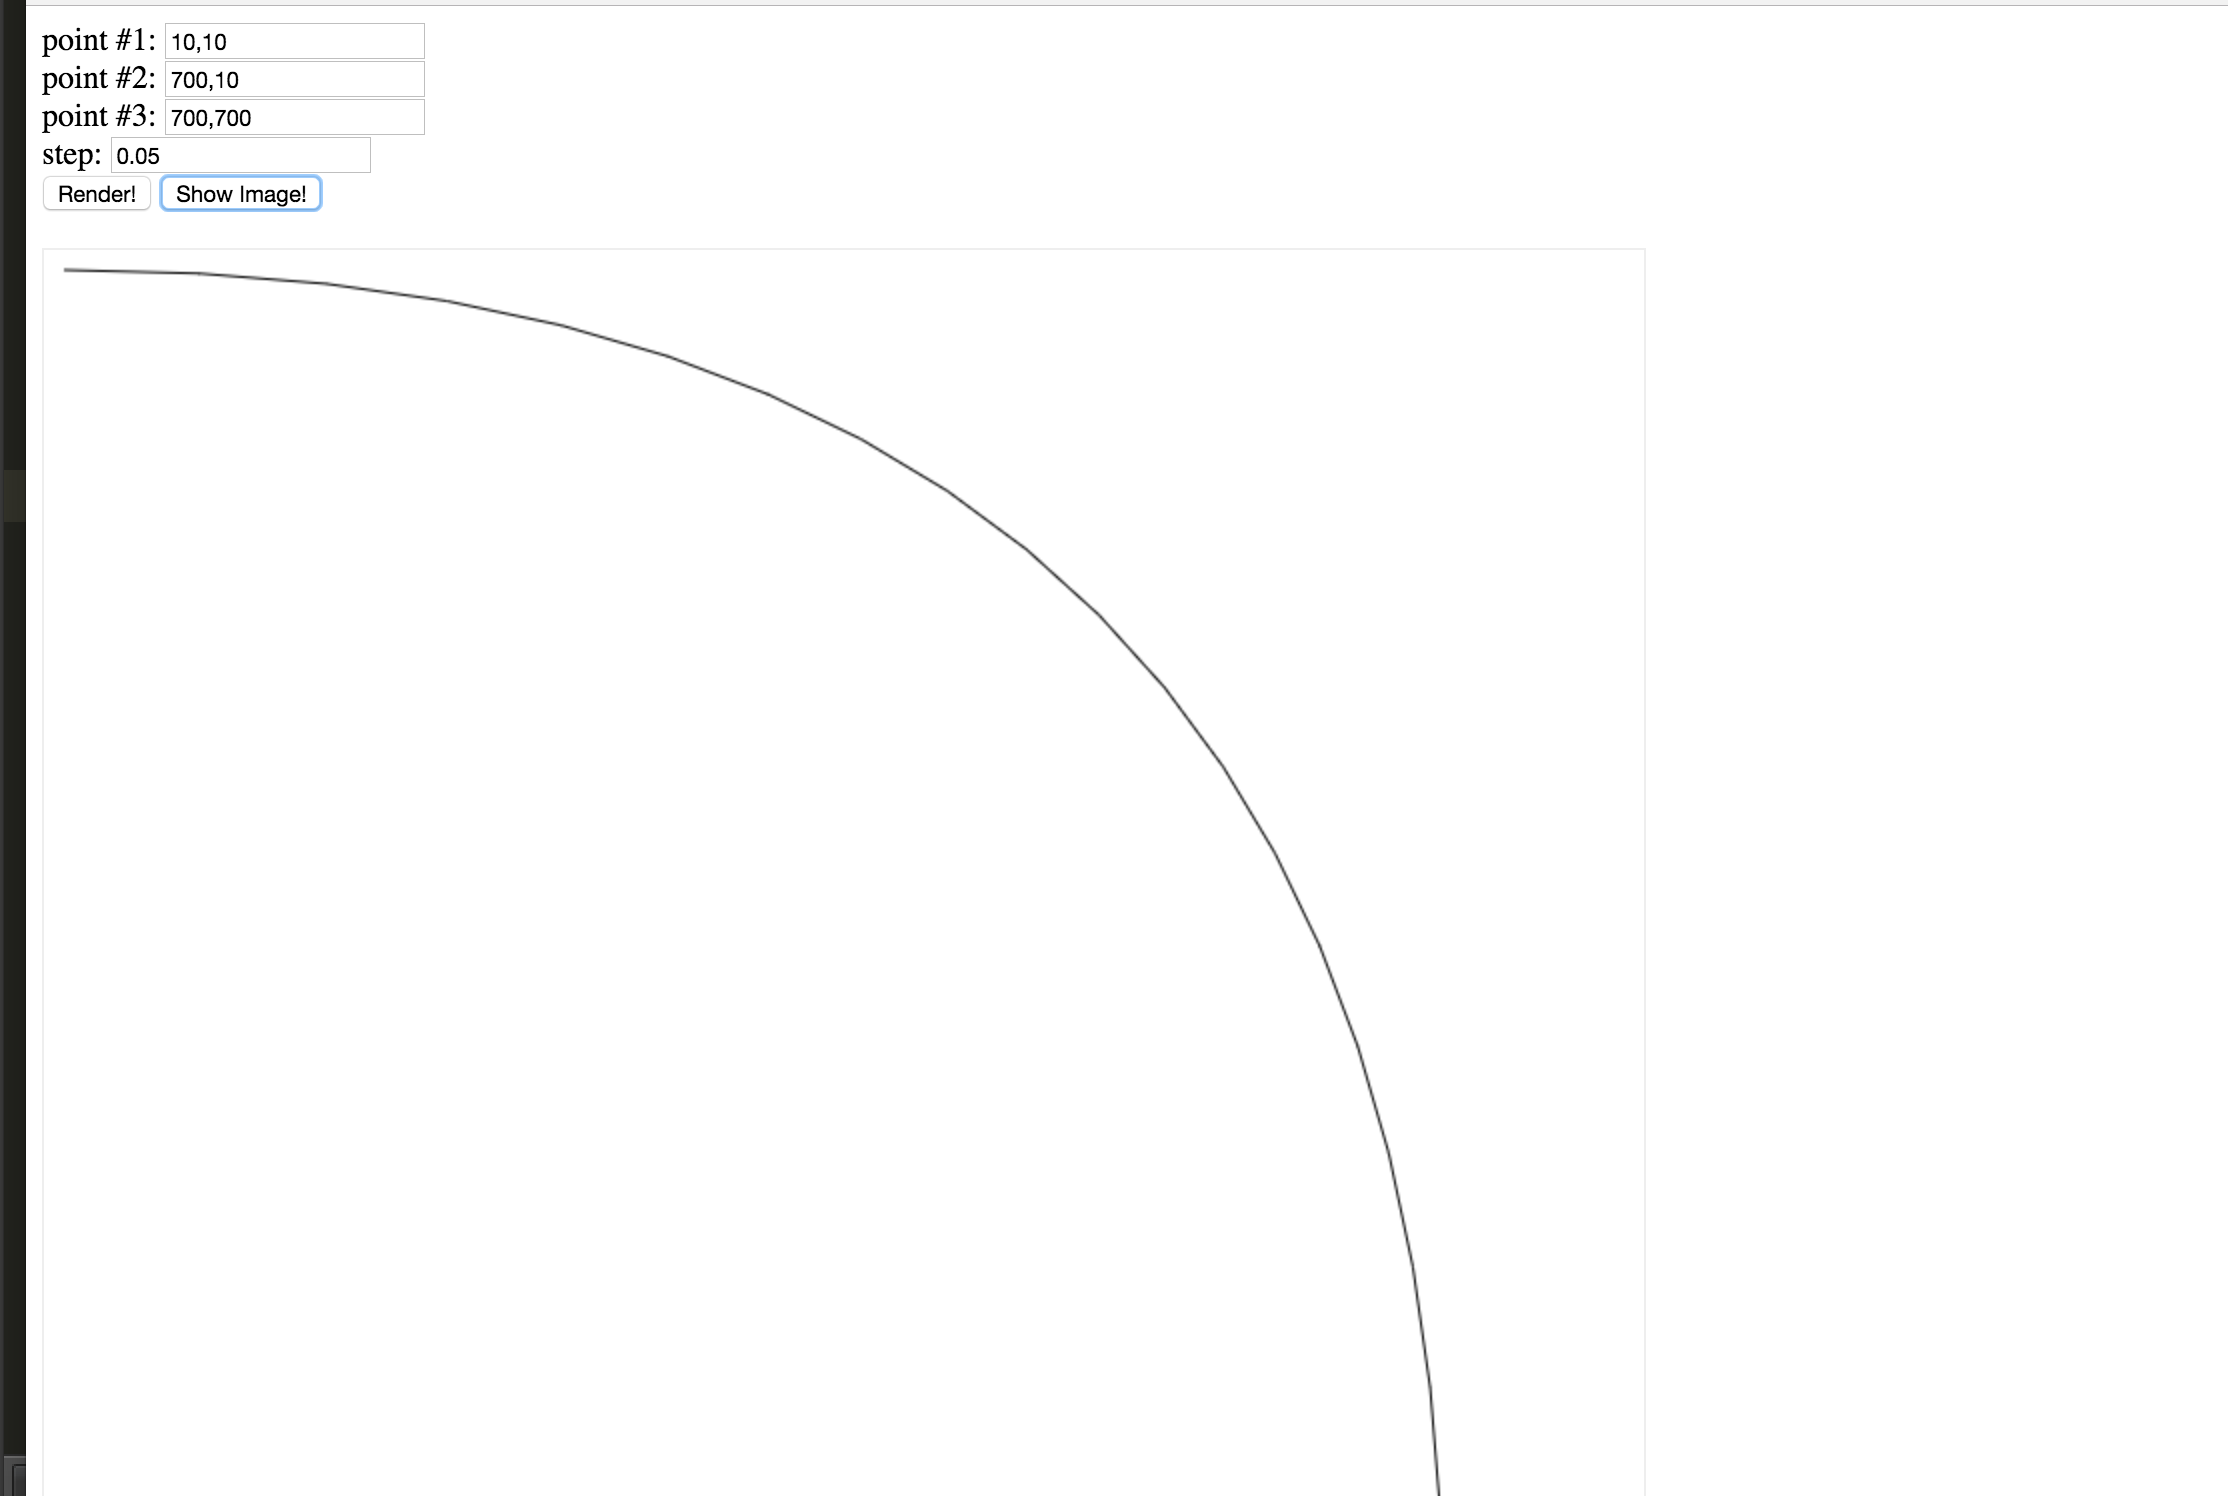
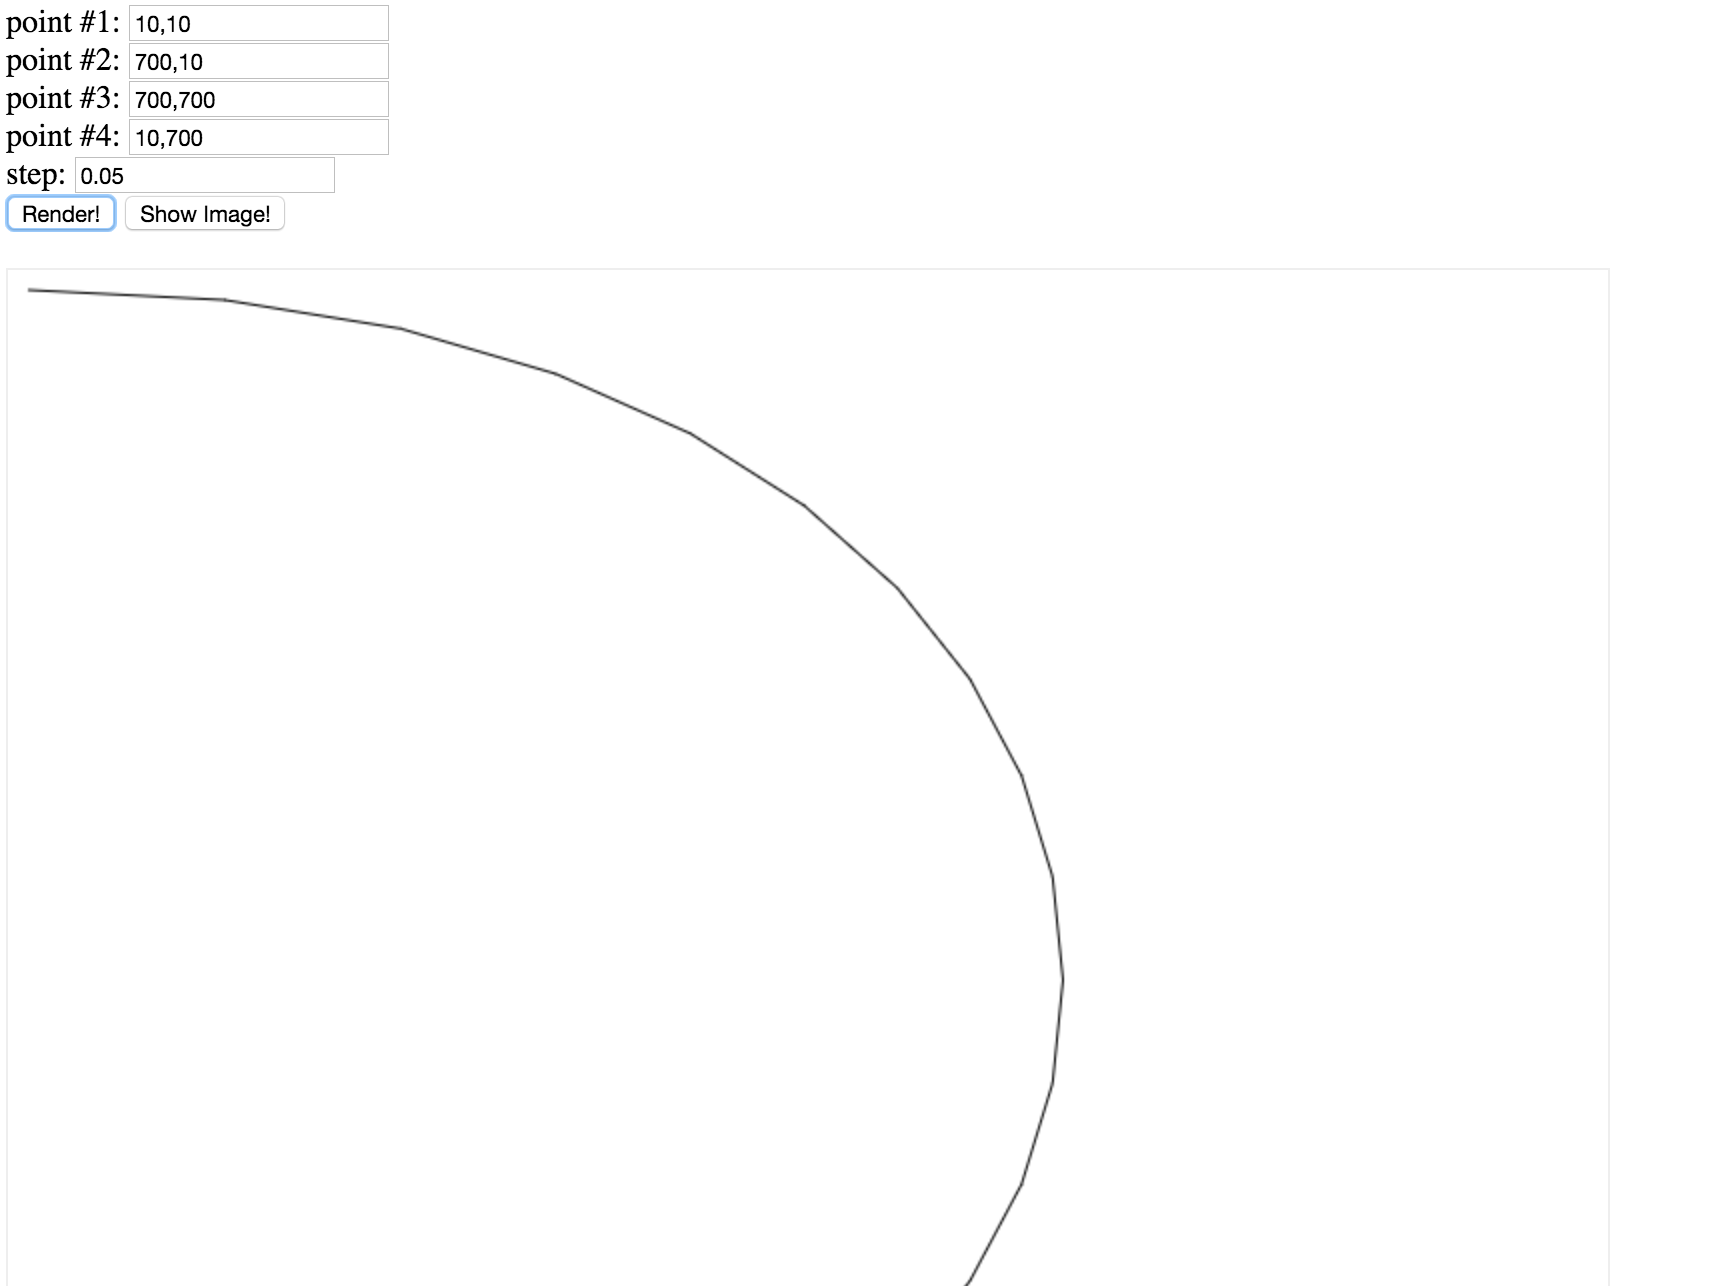
Implement cubic bezier curve algorithm

diff --git a/009-bezier-curves/bezier.js b/009-bezier-curves/bezier.js
@@ -2,6 +2,10 @@ var canvas = null;
 var context = null;
 var step = null;
 
+function apply(fn, args) {
+  return fn.apply(null, args);
+}
+
 function draw(p1, p2) {
   context.beginPath();
   console.log("creating line from (" + p1.x + ", " + p1.y + ") to (" +
@@ -11,21 +15,46 @@ function draw(p1, p2) {
   context.stroke();
 }
 
-function bezierCurveFor(t, a, b, c) {
+function cubicBezierCurve(t, a, b, c, d) {
+  var t1 = (1 - t);
+  var result = a*t1*t1*t1 + 3*b*t*t1*t1 + 3*c*t1*t*t + d*t*t*t;
+  return result;
+}
+
+function quadraticBezierCurve(t, a, b, c) {
   var t1 = (1 - t);
   var result = a*t1*t1 + 2*b*t1*t + c*t*t;
   /*   console.log('bezierCurve', result, [t, a, b, c]);*/
   return result;
 }
 
-function bezierCurve(a, b, c) {
-  var cur, last = null;
+function args(nthStep, whichArg, args) {
+  var a = [];
+  for (var i = 0; i < args.length; i++) {
+    a.push(args[i]);
+  }
+  var result = [nthStep].concat(a.map(function(pt) { return pt[whichArg] }));
+  console.log('args', result);
+  return result;
+}
+
+function bezierCurve() {
+  var fn,cur, last = null;
+
+  if (arguments.length === 4) {
+    fn = cubicBezierCurve;
+    console.log('using the cubicBezierCurve algorithm');
+  } else {
+    fn = quadraticBezierCurve;
+    console.log('using the quadraticBezierCurve algorithm');
+  }
 
   for (var i = 0; i < 1; i += step) {
     cur = {
-      x: bezierCurveFor(i, a.x, b.x, c.x),
-      y: bezierCurveFor(i, a.y, b.y, c.y)
+      x: apply(fn, args(i, 'x', arguments)),
+      y: apply(fn, args(i, 'y', arguments))
     };
+    console.log('cur', cur);
 
     if (last !== null) {
       draw(last, cur)
@@ -35,16 +64,19 @@ function bezierCurve(a, b, c) {
   }
 
   cur = {
-    x: bezierCurveFor(1, a.x, b.x, c.x),
-    y: bezierCurveFor(1, a.y, b.y, c.y)
+    x: apply(fn, args(1, 'x', arguments)),
+    y: apply(fn, args(1, 'y', arguments))
   };
   draw(last, cur);
 }
 
 function parsePt(n) {
-  var vals = document.getElementById("pt" + n).value.split(',').map(
+  var val = document.getElementById("pt" + n).value.trim();
+  if (val === "") return null;
+  var vals = val.split(',').map(
     function(x) { return parseInt(x.trim()); }
   );
+  if (vals.length !== 2) return null;
   return {
     x: vals[0],
     y: vals[1]
@@ -62,11 +94,16 @@ function main() {
 
   step = parseFloat(document.getElementById("step").value);
 
-  bezierCurve(
+  var pts = [
     parsePt(1),
     parsePt(2),
     parsePt(3)
-  );
+  ];
+  var pt4 = parsePt(4);
+  if (pt4) pts.push(pt4);
+  console.log('pts', pts);
+
+  apply(bezierCurve, pts);
 }
 
 function showImage() {

diff --git a/009-bezier-curves/index.html b/009-bezier-curves/index.html
@@ -13,6 +13,7 @@ window.onload = function() {
 point #1: <input type="text" id="pt1" value="10,10" /><br/>
 point #2: <input type="text" id="pt2" value="700,10" /><br/>
 point #3: <input type="text" id="pt3" value="700,700" /><br/>
+point #4: <input type="text" id="pt4" value="" /><br/>
 step: <input type="text" id="step" value="0.1" /><br/>
 <input type="submit" onclick="main()" value="Render!" />
 <input type="submit" onclick="showImage()" value="Show Image!" />

diff --git a/009-bezier-curves/README.md b/009-bezier-curves/README.md
@@ -1,6 +1,8 @@
 See http://weblog.jamisbuck.org/2016/9/24/weekly-programming-challenge-9.html
 for the problem statement.
 
-This implement the Normal Mode.
+This implement the Normal Mode + the cubic Bezier Curve.
 ![Screenshot]
 (screenshot.png)
+
+And
